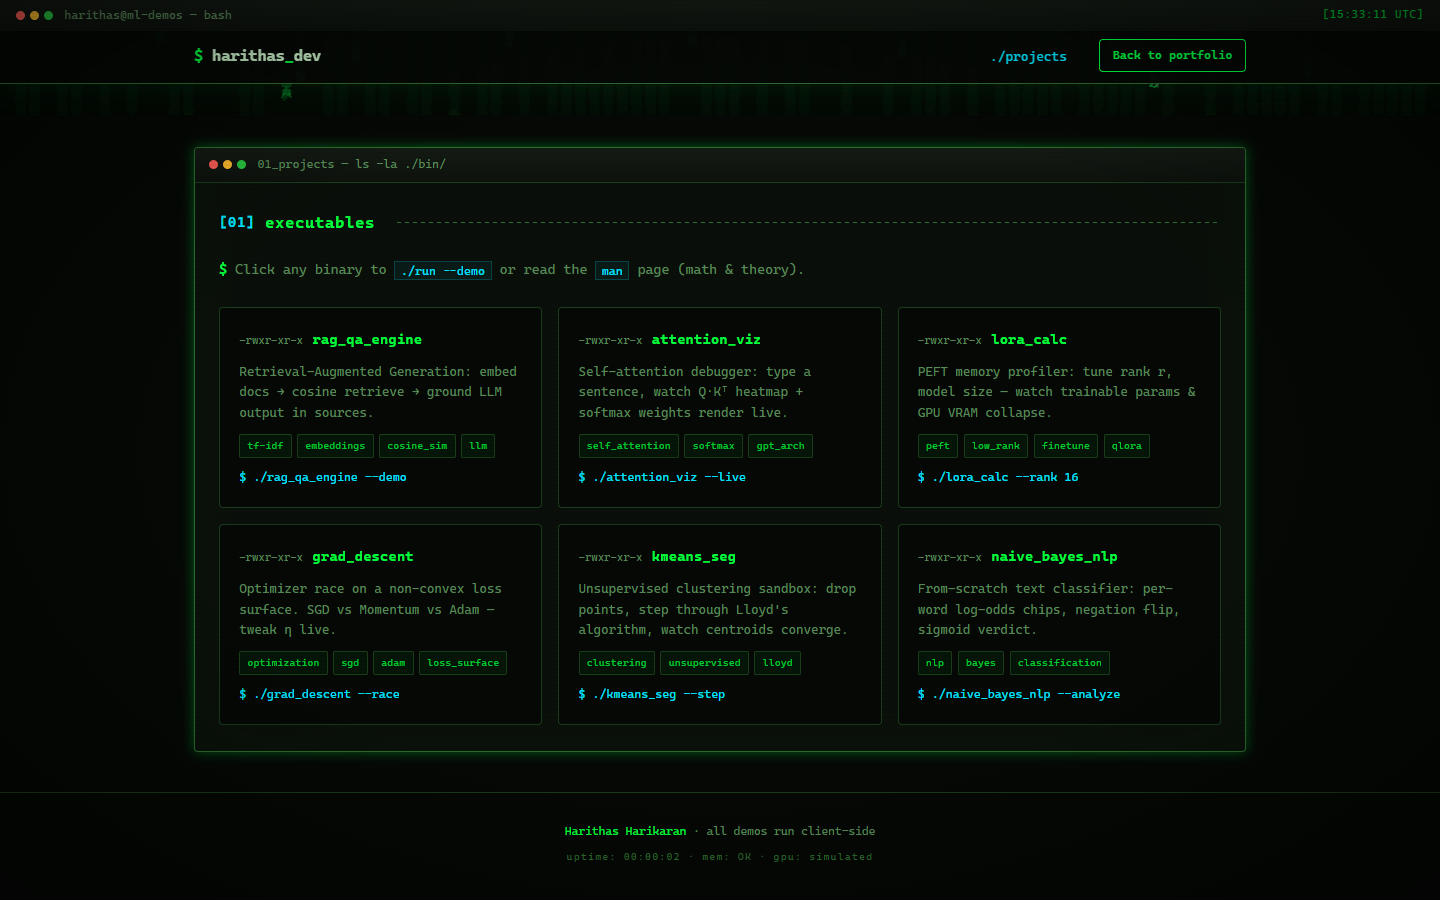
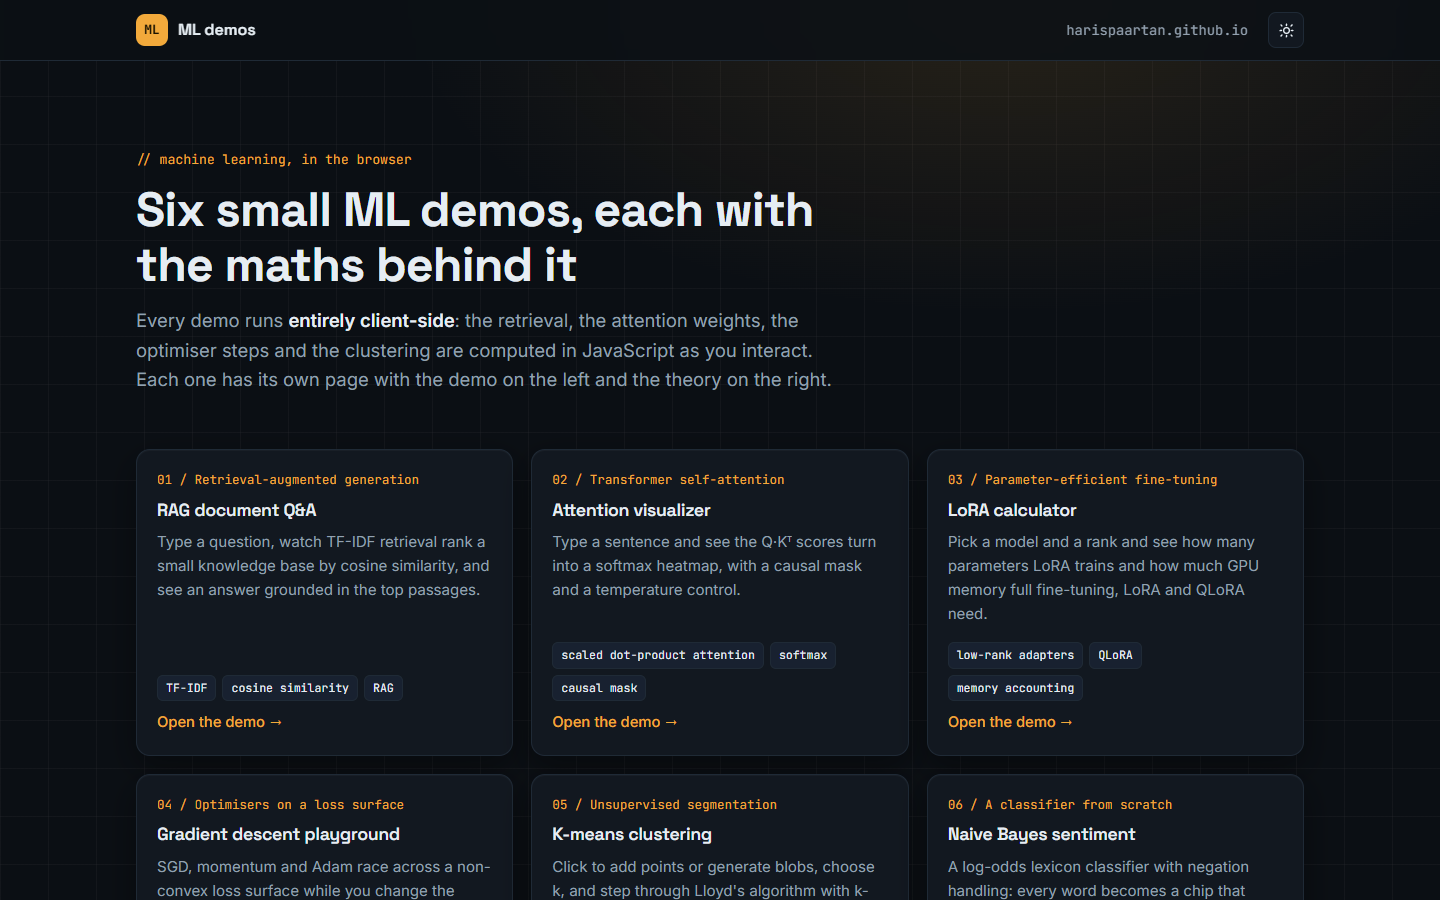
ML demos card: new overview screenshot and one-page-per-demo wording

diff --git a/index.html b/index.html
@@ -194,7 +194,7 @@
             <div class="body">
               <div class="meta"><span>browser · machine learning</span><span class="badge live">live</span></div>
               <h3>ML demos in the browser</h3>
-              <p>Six small machine-learning demos that run entirely client-side, each with the maths behind it: TF-IDF retrieval for RAG, a transformer attention heatmap, a LoRA parameter and memory calculator, an optimiser race on a loss surface, step-by-step k-means, and a naive Bayes sentiment classifier.</p>
+              <p>Six small machine-learning demos that run entirely client-side, each on its own page with the interactive part next to the maths: TF-IDF retrieval for RAG, a transformer attention heatmap, a LoRA parameter and memory calculator, an optimiser race on a loss surface, step-by-step k-means, and a naive Bayes sentiment classifier.</p>
               <div class="tags"><span>JavaScript</span><span>Canvas</span><span>KaTeX</span></div>
               <div class="links"><a class="primary" href="https://harispaartan.github.io/ml-demos/">Live demo</a><a href="https://github.com/HARISPAARTAN/ml-demos">Source</a></div>
             </div>
